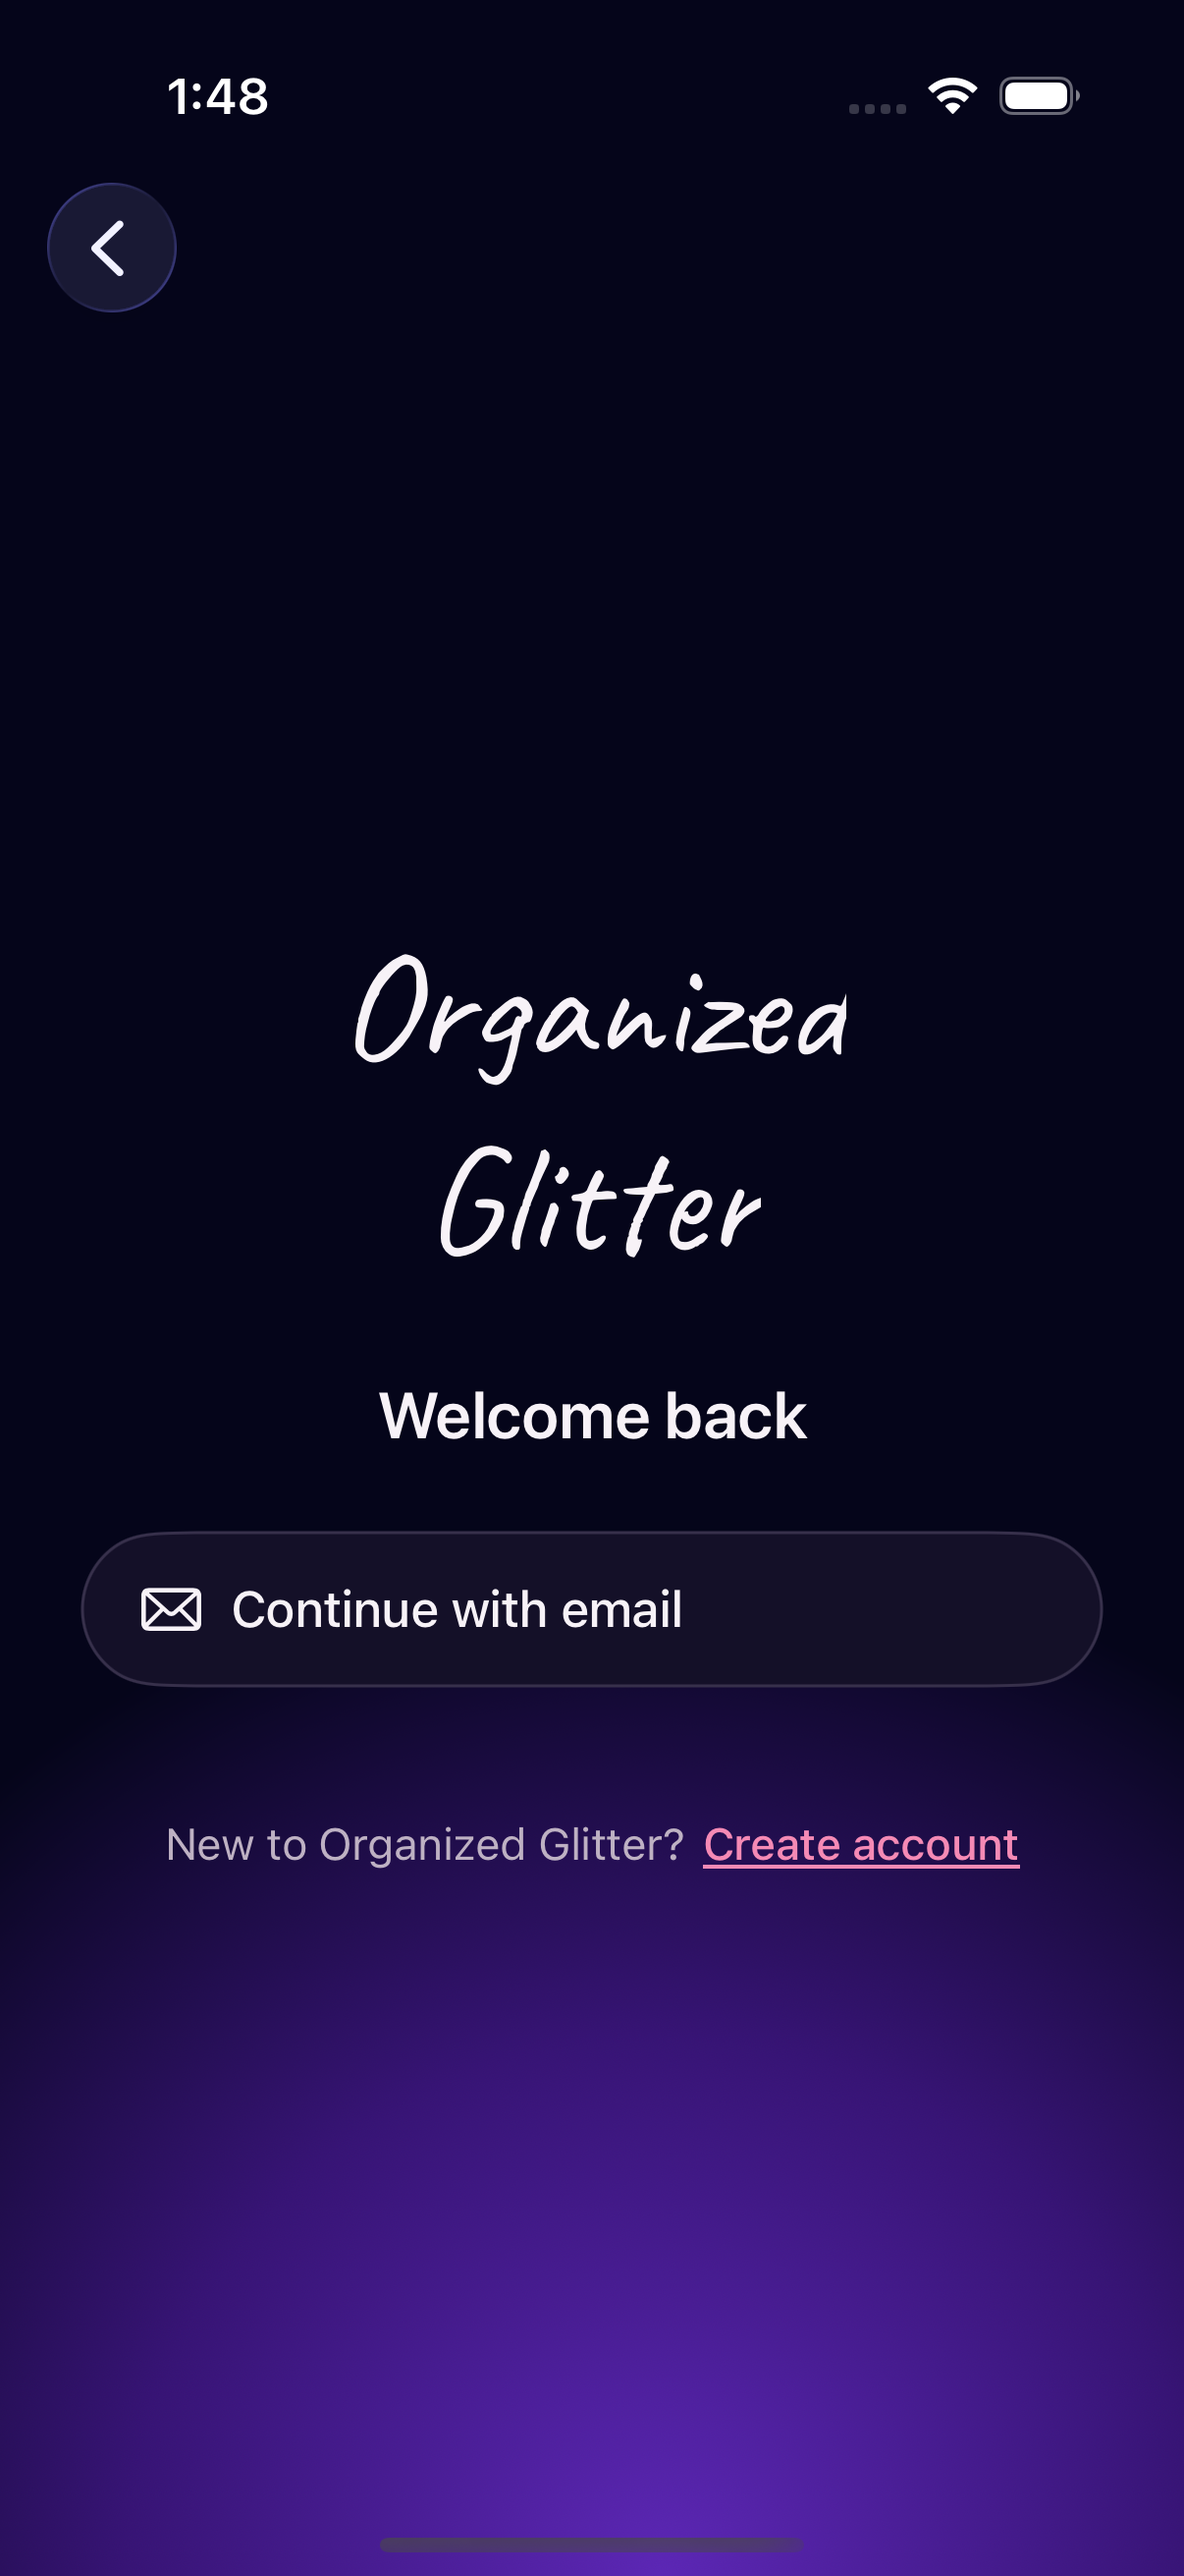
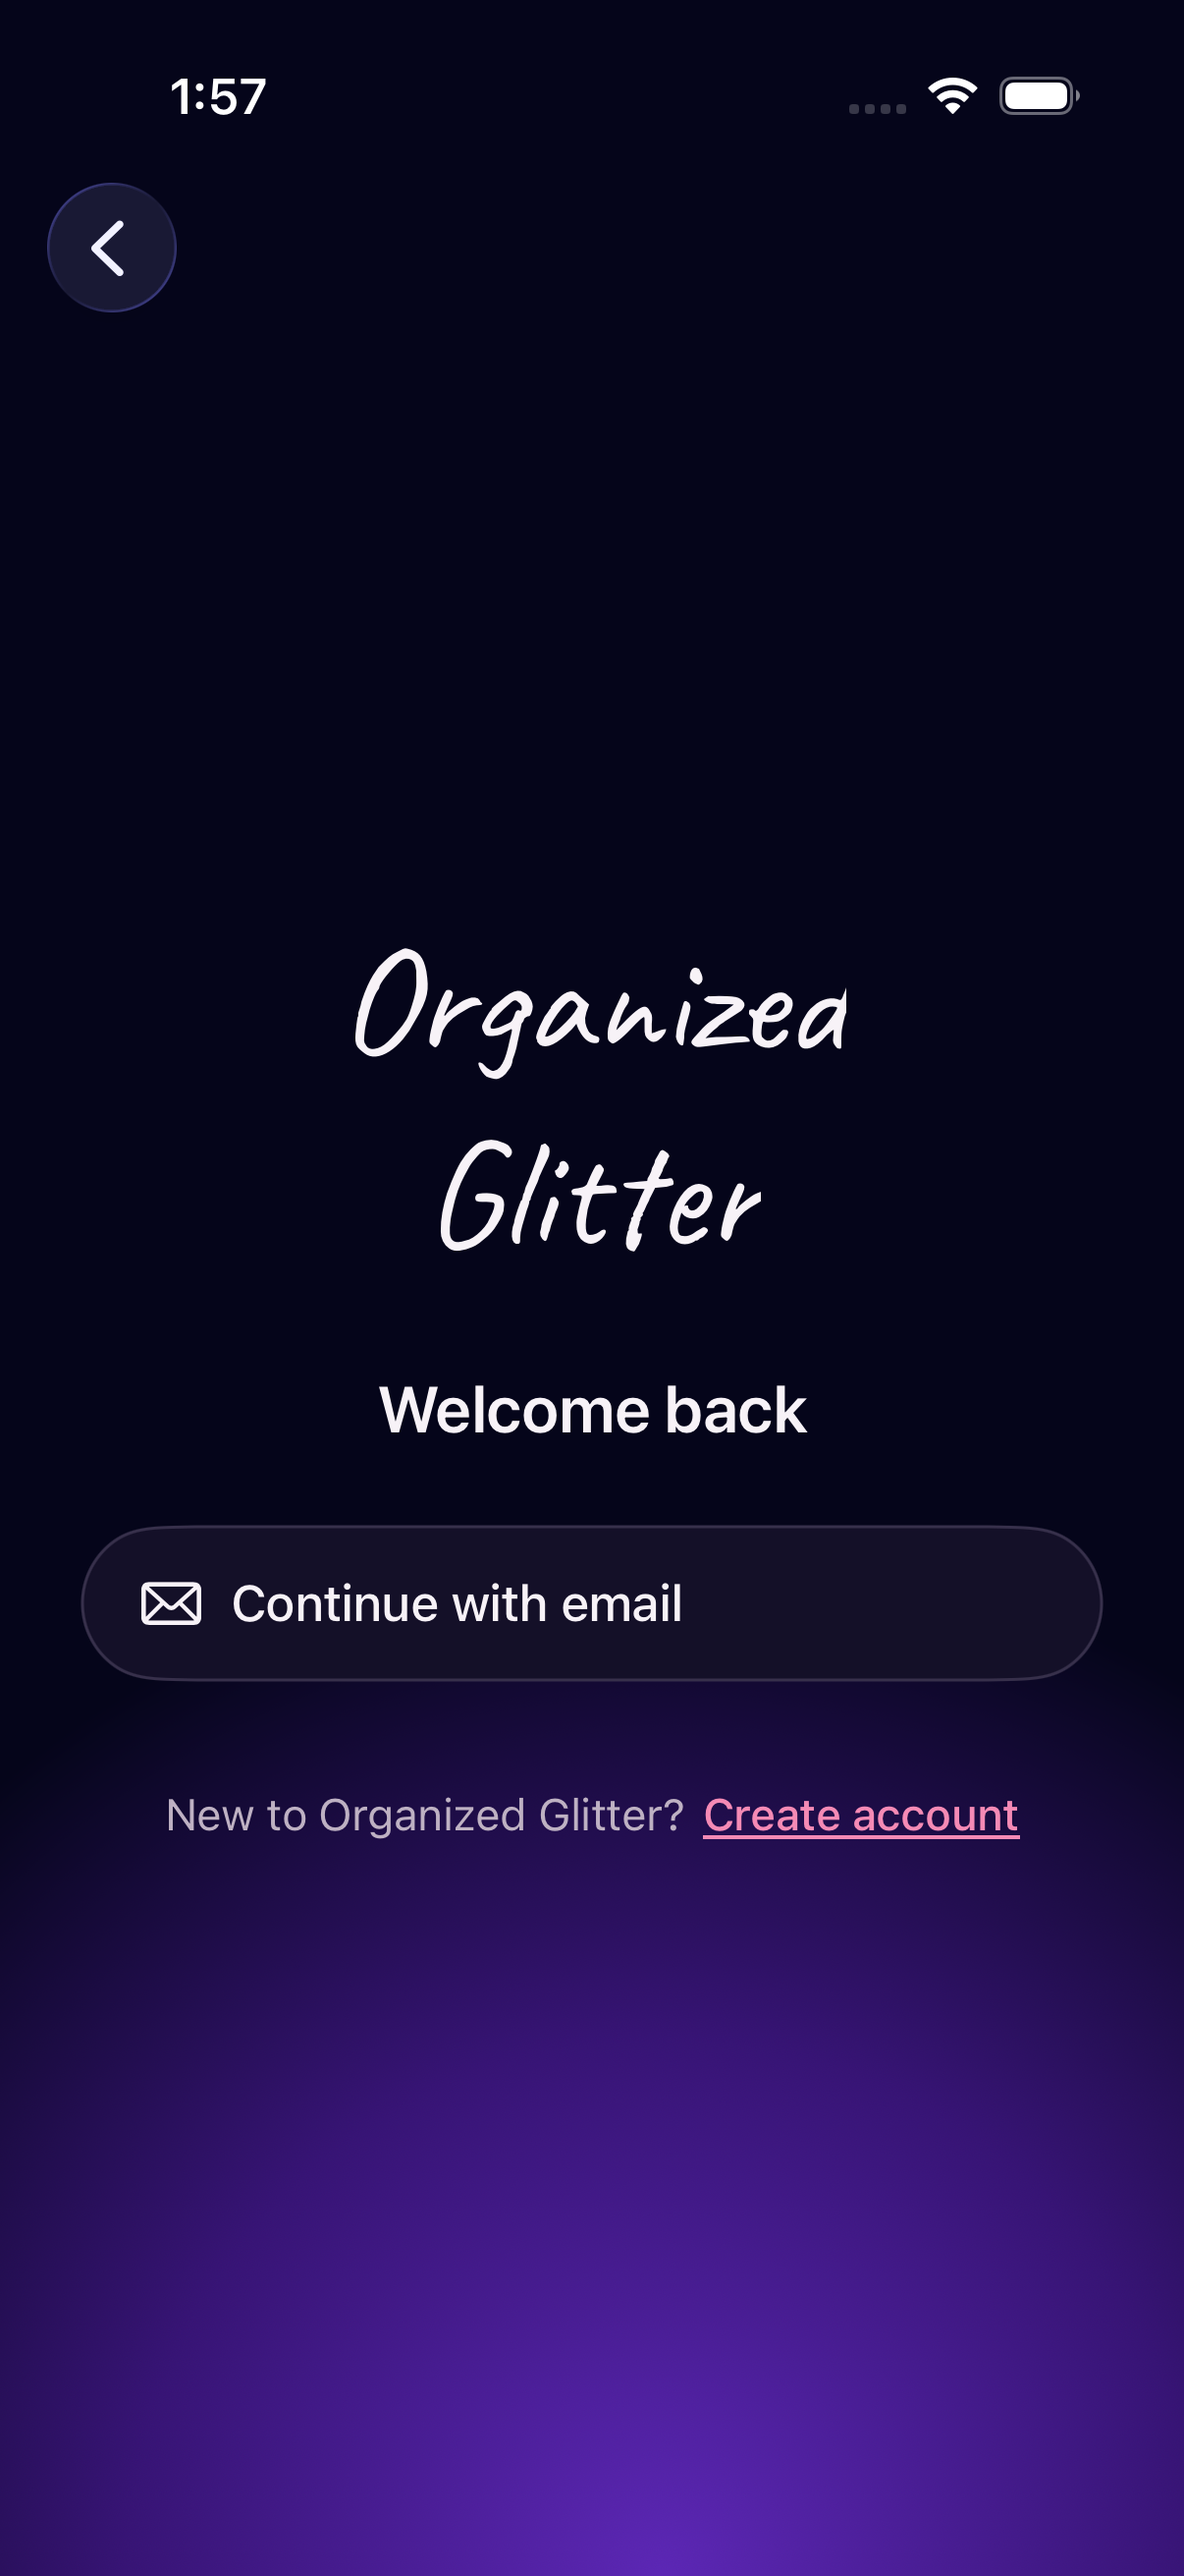
feat(auth): center entry hierarchy and add launch wordmark
Match Welcome and method-choice vertical spacing to the studio, and use a
Caveat LaunchWordmark asset on the system launch screen.

diff --git a/ios/OrganizedGlitter/Authentication/AccountMethodView.swift b/ios/OrganizedGlitter/Authentication/AccountMethodView.swift
@@ -5,7 +5,7 @@ import SwiftUI
 struct AccountMethodView: View {
   @Environment(\.theme) private var theme
 
-  enum Mode {
+  enum Mode: Hashable {
     case signIn
     case register
 
@@ -18,8 +18,7 @@ struct AccountMethodView: View {
 
     var emailDestinationTitle: String {
       switch self {
-      case .signIn: "Continue with email"
-      case .register: "Continue with email"
+      case .signIn, .register: "Continue with email"
       }
     }
 
@@ -36,17 +35,26 @@ struct AccountMethodView: View {
       case .register: "Sign in"
       }
     }
+
+    var opposite: Mode {
+      switch self {
+      case .signIn: .register
+      case .register: .signIn
+      }
+    }
   }
 
   let model: AppModel
   let mode: Mode
+  @Binding var path: NavigationPath
 
   var body: some View {
     AuthEntryContainer(fillsHeight: true) {
       VStack(spacing: 24) {
+        Spacer(minLength: 12)
+
         BrandWordmark(size: 52, relativeTo: .largeTitle)
           .frame(maxWidth: .infinity)
-          .padding(.top, 12)
 
         Text(mode.title)
           .font(.title2.weight(.semibold))
@@ -55,13 +63,8 @@ struct AccountMethodView: View {
           .accessibilityIdentifier("accountMethodTitle")
 
         VStack(spacing: 12) {
-          NavigationLink {
-            switch mode {
-            case .signIn:
-              SignInView(model: model)
-            case .register:
-              RegistrationView(client: model.client)
-            }
+          Button {
+            path.append(mode == .signIn ? AccountEntryRoute.emailSignIn : .emailRegister)
           } label: {
             Label(mode.emailDestinationTitle, systemImage: "envelope")
               .labelStyle(.titleAndIcon)
@@ -77,24 +80,27 @@ struct AccountMethodView: View {
           Text(mode.switchPrompt)
             .font(.subheadline)
             .foregroundStyle(theme.mutedForeground)
-          NavigationLink {
-            AccountMethodView(
-              model: model,
-              mode: mode == .signIn ? .register : .signIn
-            )
-          } label: {
-            Text(mode.switchActionTitle)
+          Button(mode.switchActionTitle) {
+            replaceMethod(with: mode.opposite)
           }
           .buttonStyle(AuthLinkButtonStyle())
           .accessibilityIdentifier("accountMethodSwitch")
         }
         .frame(maxWidth: .infinity)
         .padding(.top, 8)
+
+        Spacer(minLength: 12)
       }
-      .frame(minHeight: 480)
       .frame(maxWidth: .infinity)
     }
     .navigationBarTitleDisplayMode(.inline)
+  }
+
+  private func replaceMethod(with next: Mode) {
+    if !path.isEmpty {
+      path.removeLast()
+    }
+    path.append(AccountEntryRoute.methods(next))
   }
 }
 

diff --git a/ios/OrganizedGlitter/Authentication/WelcomeView.swift b/ios/OrganizedGlitter/Authentication/WelcomeView.swift
@@ -5,36 +5,50 @@ import SwiftUI
 struct WelcomeView: View {
   let model: AppModel
 
+  @State private var path = NavigationPath()
+
   var body: some View {
-    AuthEntryContainer(fillsHeight: true) {
-      VStack(spacing: 40) {
-        Spacer(minLength: 24)
-        BrandWordmark(size: 64)
-          .frame(maxWidth: .infinity)
-          .accessibilityIdentifier("welcomeWordmark")
-        Spacer(minLength: 24)
+    NavigationStack(path: $path) {
+      AuthEntryContainer(fillsHeight: true) {
+        VStack(spacing: 40) {
+          Spacer(minLength: 24)
+          BrandWordmark(size: 64)
+            .frame(maxWidth: .infinity)
+            .accessibilityIdentifier("welcomeWordmark")
+          Spacer(minLength: 24)
 
-        VStack(spacing: 12) {
-          NavigationLink {
-            AccountMethodView(model: model, mode: .register)
-          } label: {
-            Text("Create account")
-          }
-          .buttonStyle(AuthPrimaryButtonStyle())
-          .accessibilityIdentifier("welcomeCreateAccount")
-          .disabled(model.client == nil)
+          VStack(spacing: 12) {
+            Button {
+              path.append(AccountEntryRoute.methods(.register))
+            } label: {
+              Text("Create account")
+            }
+            .buttonStyle(AuthPrimaryButtonStyle())
+            .accessibilityIdentifier("welcomeCreateAccount")
+            .disabled(model.client == nil)
 
-          NavigationLink {
-            AccountMethodView(model: model, mode: .signIn)
-          } label: {
-            Text("Sign in")
+            Button {
+              path.append(AccountEntryRoute.methods(.signIn))
+            } label: {
+              Text("Sign in")
+            }
+            .buttonStyle(AuthSecondaryButtonStyle())
+            .accessibilityIdentifier("welcomeSignIn")
           }
-          .buttonStyle(AuthSecondaryButtonStyle())
-          .accessibilityIdentifier("welcomeSignIn")
+          .padding(.bottom, 16)
         }
-        .padding(.bottom, 8)
+      }
+      .toolbar(.hidden, for: .navigationBar)
+      .navigationDestination(for: AccountEntryRoute.self) { route in
+        switch route {
+        case .methods(let mode):
+          AccountMethodView(model: model, mode: mode, path: $path)
+        case .emailSignIn:
+          SignInView(model: model)
+        case .emailRegister:
+          RegistrationView(client: model.client, path: $path)
+        }
       }
     }
-    .toolbar(.hidden, for: .navigationBar)
   }
 }

diff --git a/ios/OrganizedGlitter/App/RootView.swift b/ios/OrganizedGlitter/App/RootView.swift
@@ -11,9 +11,7 @@ struct RootView: View {
       case .restoring:
         LaunchView()
       case .signedOut:
-        NavigationStack {
-          WelcomeView(model: model)
-        }
+        WelcomeView(model: model)
       case .signedIn(let user):
         if let client = model.client {
           AppShellView(model: model, client: client, user: user)
@@ -42,14 +40,16 @@ struct RootView: View {
 
 /// In-app restoration surface. Distinct from the system launch screen: it can
 /// show progress while session restore runs, then yields as soon as `phase`
-/// leaves `.restoring`. No artificial branding delay.
+/// leaves `.restoring`. No artificial branding delay. Wordmark matches Welcome;
+/// progress is quiet and labeled for VoiceOver only.
 private struct LaunchView: View {
   @Environment(\.accessibilityReduceMotion) private var reduceMotion
 
   var body: some View {
-    VStack(spacing: 24) {
+    VStack(spacing: 28) {
       BrandWordmark(size: 64)
-      ProgressView("Opening your library")
+      ProgressView()
+        .accessibilityLabel("Opening your library")
         .accessibilityIdentifier("launchProgress")
     }
     .frame(maxWidth: .infinity, maxHeight: .infinity)

diff --git a/ios/docs/account-entry-validation.md b/ios/docs/account-entry-validation.md
@@ -50,9 +50,9 @@ supplement `screenshots/account-entry/references/`.
 
 | Surface | Behavior |
 | --- | --- |
-| System launch screen | Solid `LaunchBackground` (`#F8E9F6` light / `#05051A` dark). No logo tile. |
-| In-app restoration | Caveat wordmark plus progress only while restoring. No artificial delay. |
-| Welcome | Stacked Caveat wordmark, Create account, Sign in. No authenticated tabs. |
+| System launch screen | Solid `LaunchBackground` (`#F8E9F6` light / `#05051A` dark) with centered Caveat `LaunchWordmark` asset. |
+| In-app restoration | Live Caveat wordmark plus progress only while restoring. No artificial delay. |
+| Welcome | Stacked Caveat wordmark centered above bottom actions (Create account, Sign in). No authenticated tabs. |
 | Method selection | Wordmark, Welcome back / Create account, Continue with email, switch link. |
 | Email sign-in | Email, password, Sign in, Forgot password?, Privacy, Terms, Resend verification. |
 | Registration | Username, email, password, confirmation; success guidance after create. |
@@ -81,12 +81,15 @@ Native simulator captures (fictional signed-out fixtures):
 - [iPhone password reset, light](screenshots/account-entry/iphone-password-reset-light.png)
 - [iPhone password reset, dark](screenshots/account-entry/iphone-password-reset-dark.png)
 - [iPad Welcome, light](screenshots/account-entry/ipad-welcome-light.png)
+- [iPad Welcome, dark](screenshots/account-entry/ipad-welcome-dark.png)
 - [iPad method choice, light](screenshots/account-entry/ipad-signin-methods-light.png)
+- [iPad method choice, dark](screenshots/account-entry/ipad-signin-methods-dark.png)
 - [iPad email sign-in, light](screenshots/account-entry/ipad-signin-light.png)
+- [iPad email sign-in, dark](screenshots/account-entry/ipad-signin-dark.png)
 - [iPhone Welcome, accessibility XXXL](screenshots/account-entry/iphone-welcome-axxl.png)
 - [iPhone method choice, accessibility XXXL](screenshots/account-entry/iphone-signin-methods-axxl.png)
 
-Studio QA references:
+Studio QA and launch references:
 
 - [Studio splash, light](screenshots/account-entry/references/studio-splash-light.png)
 - [Studio splash, dark](screenshots/account-entry/references/studio-splash-dark.png)
@@ -98,6 +101,8 @@ Studio QA references:
 - [Studio register email, light](screenshots/account-entry/references/studio-register-email-light.png)
 - [Studio recovery, light](screenshots/account-entry/references/studio-recovery-light.png)
 - [Studio recovery confirmation, light](screenshots/account-entry/references/studio-recovery-confirmation-light.png)
+- [Launch wordmark asset, light](screenshots/account-entry/references/launch-wordmark-light.png)
+- [Launch wordmark asset, dark](screenshots/account-entry/references/launch-wordmark-dark.png)
 
 Root `screenshots/light-signin.png` and `screenshots/dark-signin.png` match the
 current email sign-in presentation.
@@ -136,15 +141,16 @@ Manual review: launch Debug with `-ui-testing-signed-out`.
   against a real PocketBase instance
 - Live Discord, Google, or Apple authentication (not implemented on iOS)
 - Universal-link token confirmation for reset or verification
+- iPad dark-mode account-entry captures
 - System launch screen pixel comparison on device cold start
-- iPad dark-mode and iPad accessibility XXXL account-entry matrices
+- iPad accessibility XXXL account-entry matrix
 
 ## Remaining visual gaps
 
 - Studio method choice shows Apple/Google/Discord; native shows email only by
   contract
-- System launch cannot render Caveat; it uses the solid brand background only
-- Welcome wordmark sits slightly higher than some studio frames
+- System launch uses a pre-rendered Caveat `LaunchWordmark` asset rather than
+  live Dynamic Type text
 - Native method choice uses one capsule email row instead of four provider rows
 
 ## Backend / auth follow-ups

diff --git a/ios/docs/design.md b/ios/docs/design.md
@@ -65,13 +65,14 @@ updated active records remains unchanged; the summary uses server totals.
 
 Account entry was migrated against the same studio revision while keeping
 ADR 0001 backgrounds. The system launch screen uses a solid brand
-`LaunchBackground`. The in-app restoration splash shows the Caveat wordmark
-only while session restore runs. Signed-out users land on Welcome (wordmark,
-Create account, Sign in) with no authenticated tabs. Method selection offers
-Continue with email only; Apple, Google, and Discord stay out until a native
-OAuth path and provider continuity land. Email sign-in, registration,
-password-reset request/confirmation, and verification request use quiet auth
-controls instead of sticker pills. See
+`LaunchBackground` with a centered Caveat `LaunchWordmark` asset. The in-app
+restoration splash shows a live Caveat wordmark only while session restore
+runs. Signed-out users land on Welcome (centered wordmark above Create account
+and Sign in) with no authenticated tabs. Method selection offers Continue with
+email only; Apple, Google, and Discord stay out until a native OAuth path and
+provider continuity land. Email sign-in, registration, password-reset
+request/confirmation, and verification request use quiet auth controls instead
+of sticker pills. See
 [account-entry validation](account-entry-validation.md).
 
 Other authenticated screens still use legacy sticker surfaces, `StickerCard`,
